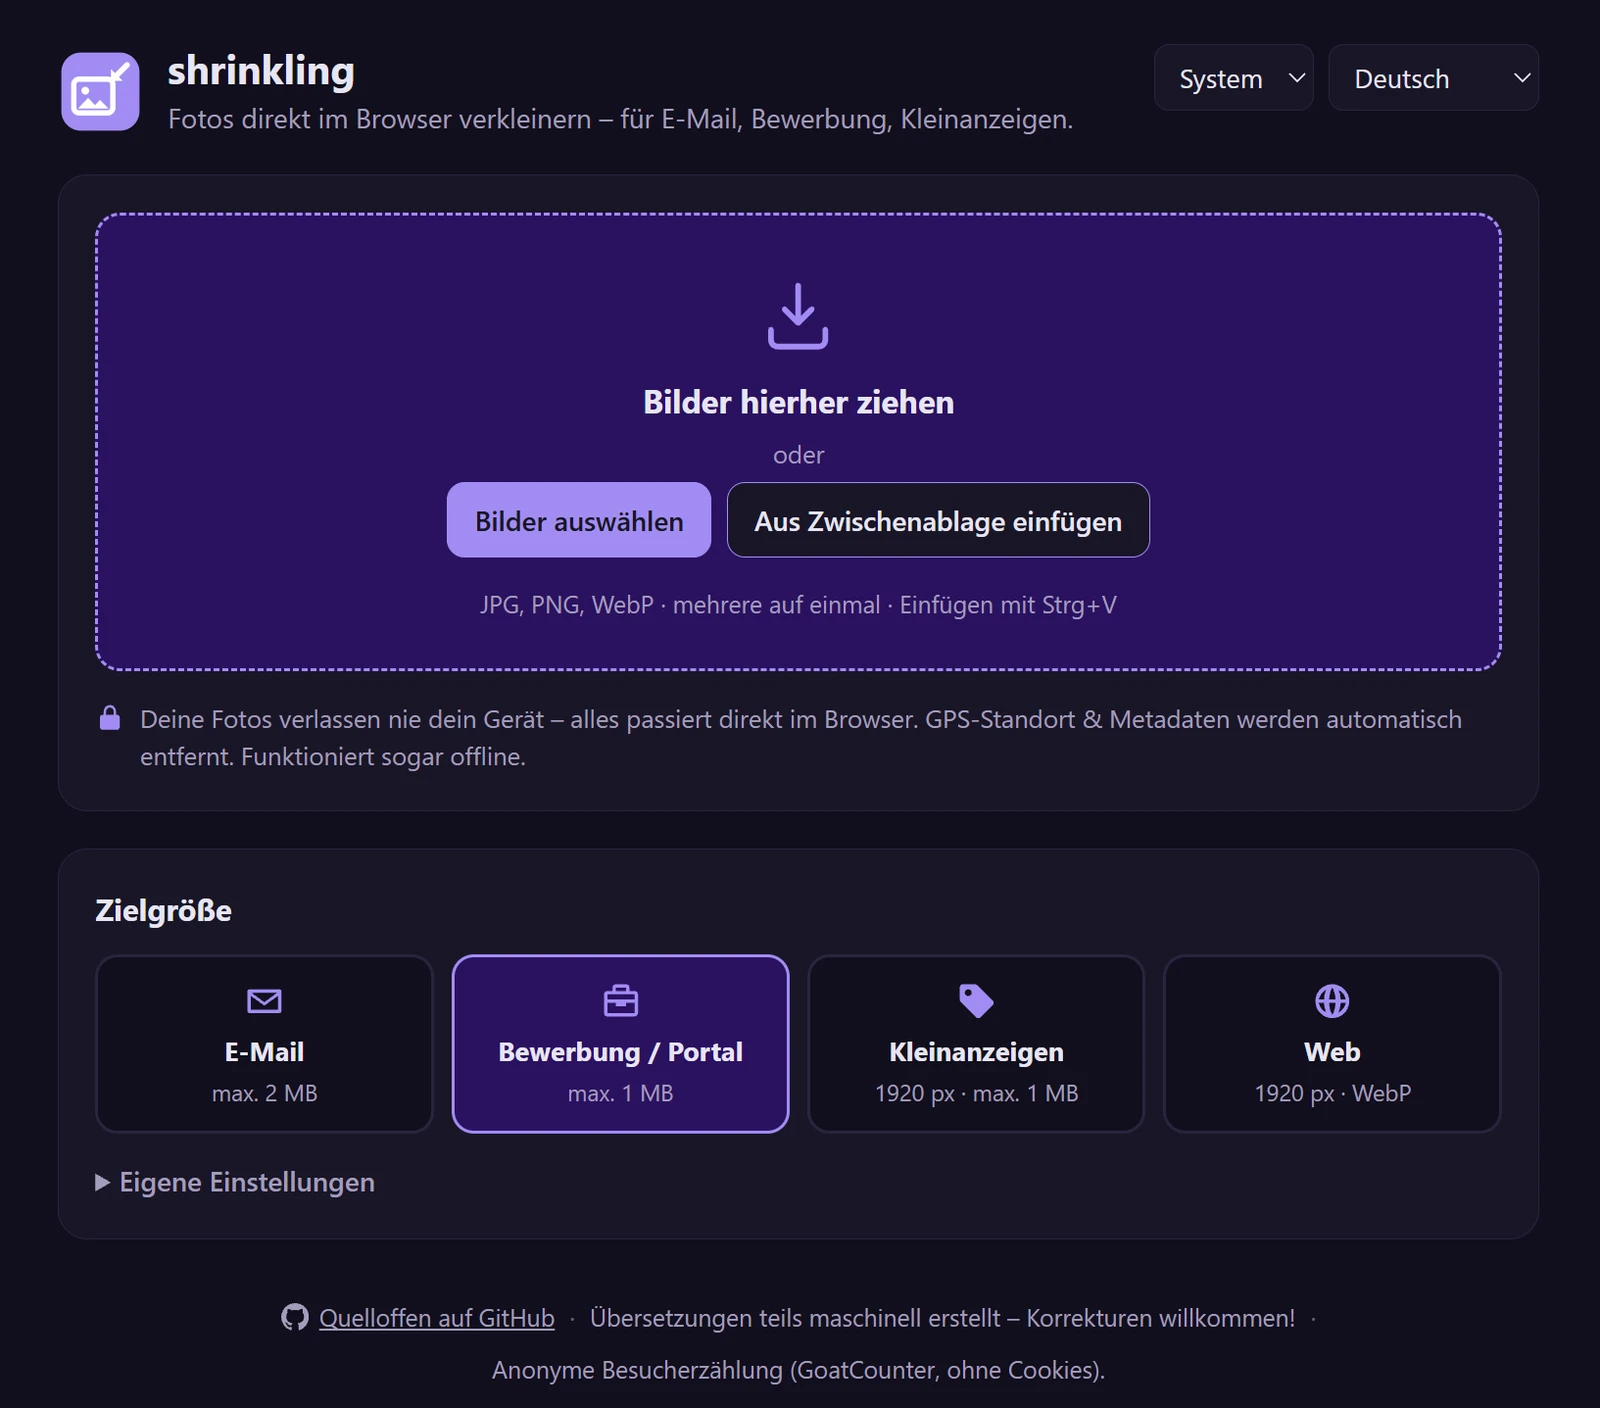
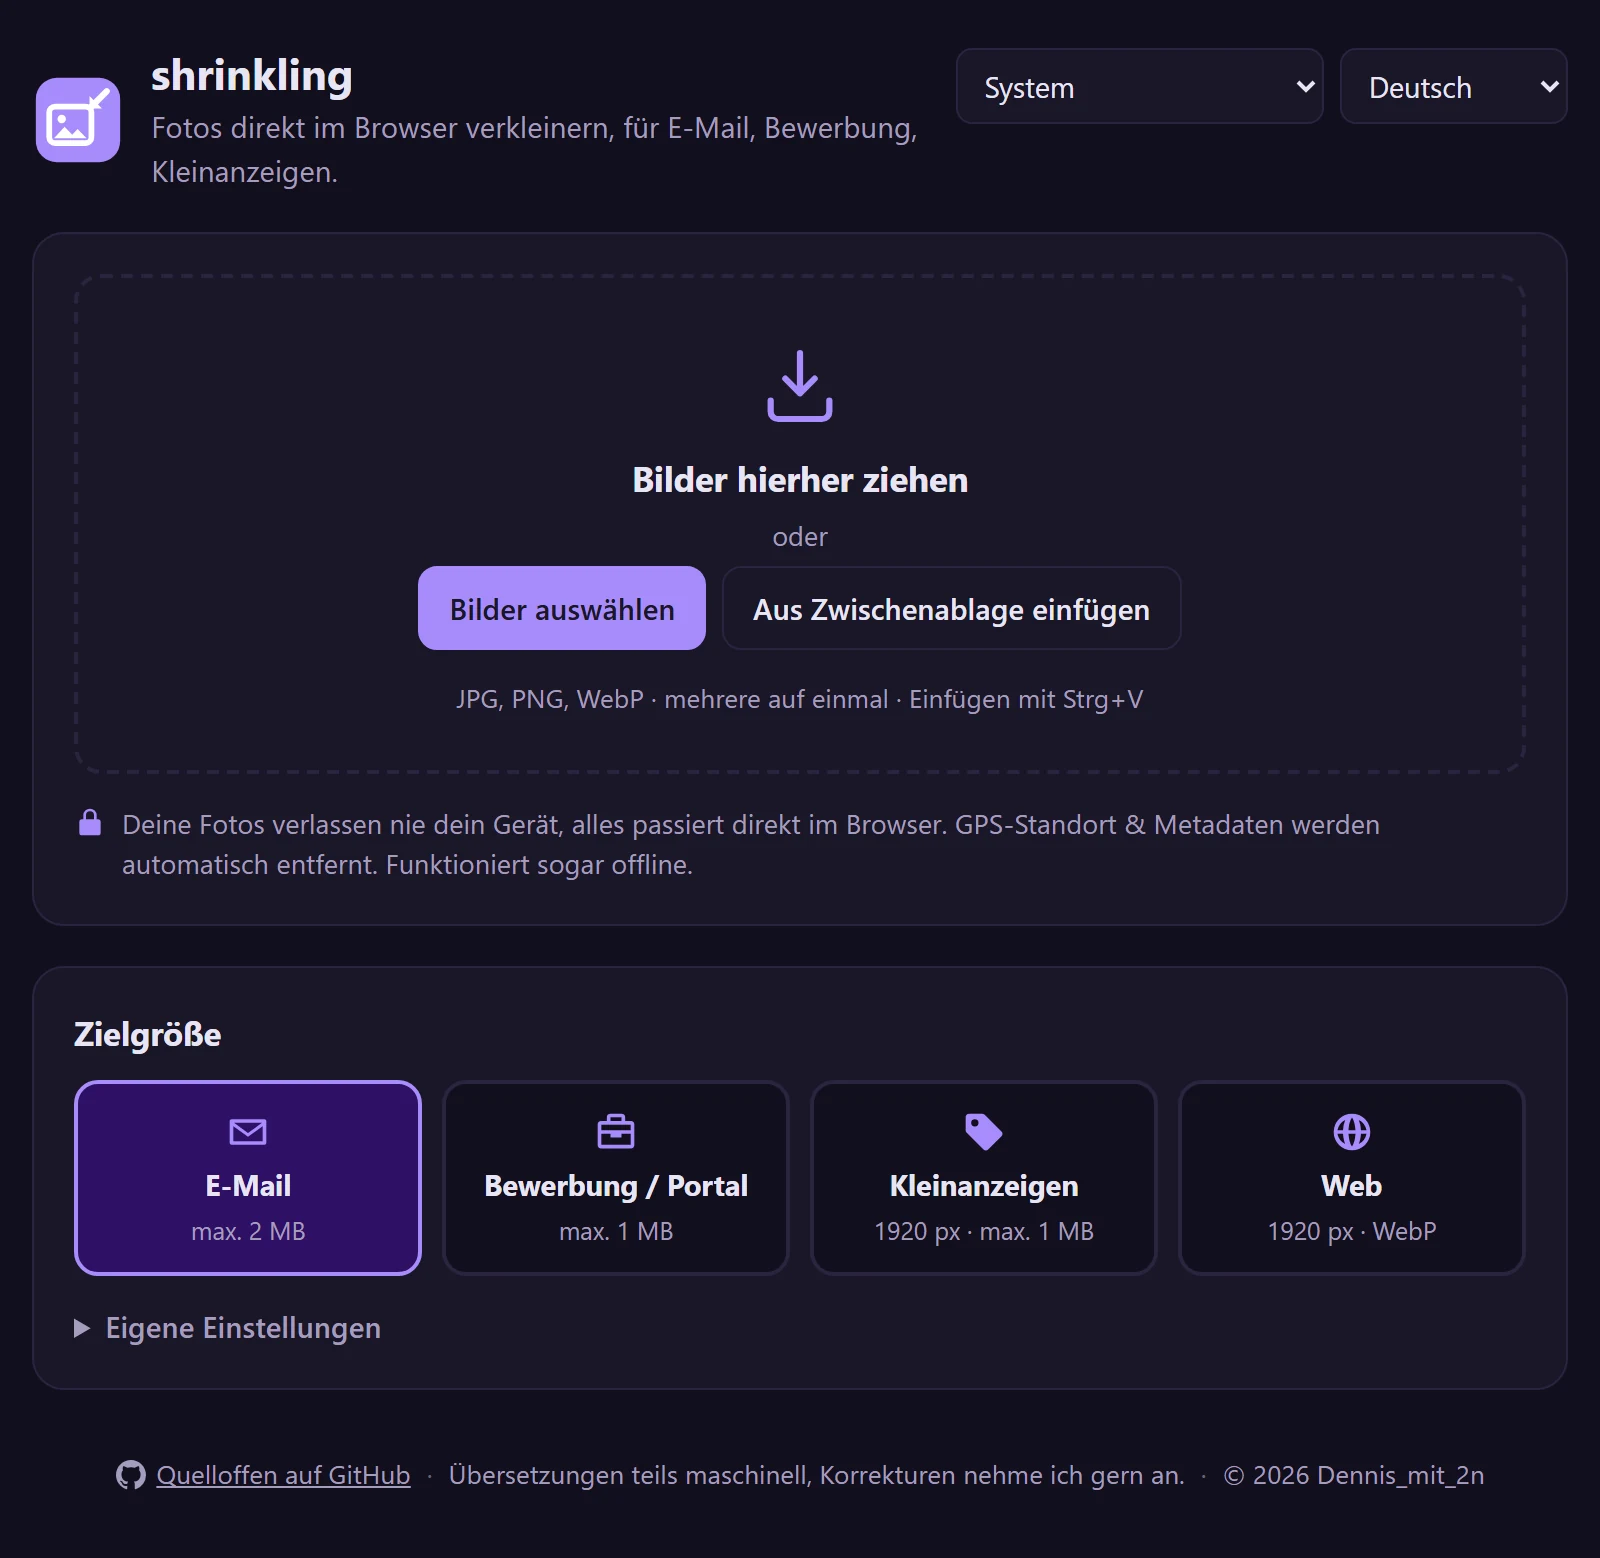
Anleitungen: Bildschirmfotos von Zählwerk und shrinkling neu aufgenommen

diff --git a/js/guides.js b/js/guides.js
@@ -264,7 +264,7 @@ var GUIDES = {
     },
     shots: [
       {
-        file: 'shrink-de.webp', w: 1600, h: 1408,
+        file: 'shrink-de.webp', w: 1600, h: 1558,
         alt: {
           de: 'shrinkling: die Fläche zum Hineinziehen, Auswählen oder Einfügen von Bildern, darunter die vier Zielgrößen für E-Mail, Bewerbungsportale, Kleinanzeigen und das Web.',
           en: 'shrinkling: the area for dropping, choosing or pasting images, and below it the four target sizes for email, job portals, classifieds and the web.',
@@ -1867,7 +1867,7 @@ var GUIDES = {
     },
     shots: [
       {
-        file: 'zaehlwerk-de.webp', w: 1430, h: 1304,
+        file: 'zaehlwerk-de.webp', w: 1430, h: 1506,
         alt: {
           de: 'Zählwerk vor dem ersten Einlesen: die Fläche, auf die man den Ordner zieht oder über die man ihn auswählt, darunter, wo dieser Ordner unter Windows und unter macOS oder Linux liegt, und der Hinweis auf den Zählwerk Ticker.',
           en: 'Zählwerk before the first import: the area you drag the folder onto or click to pick it, below it where that folder lives on Windows and on macOS or Linux, and the pointer to Zählwerk Ticker.',

diff --git a/werkstatt.html b/werkstatt.html
@@ -103,7 +103,7 @@
 
 <script src="./js/i18n.js?v=2026-11-11b"></script>
 <script src="./js/news.js?v=2026-11-11b"></script>
-<script src="./js/guides.js?v=2026-11-10"></script>
+<script src="./js/guides.js?v=2026-11-11"></script>
 <script src="./js/dates.js?v=2026-09-14"></script>
 <script src="./js/header.js?v=2026-11-03"></script>
 <script src="./js/werkstatt.js?v=2026-11-10"></script>
